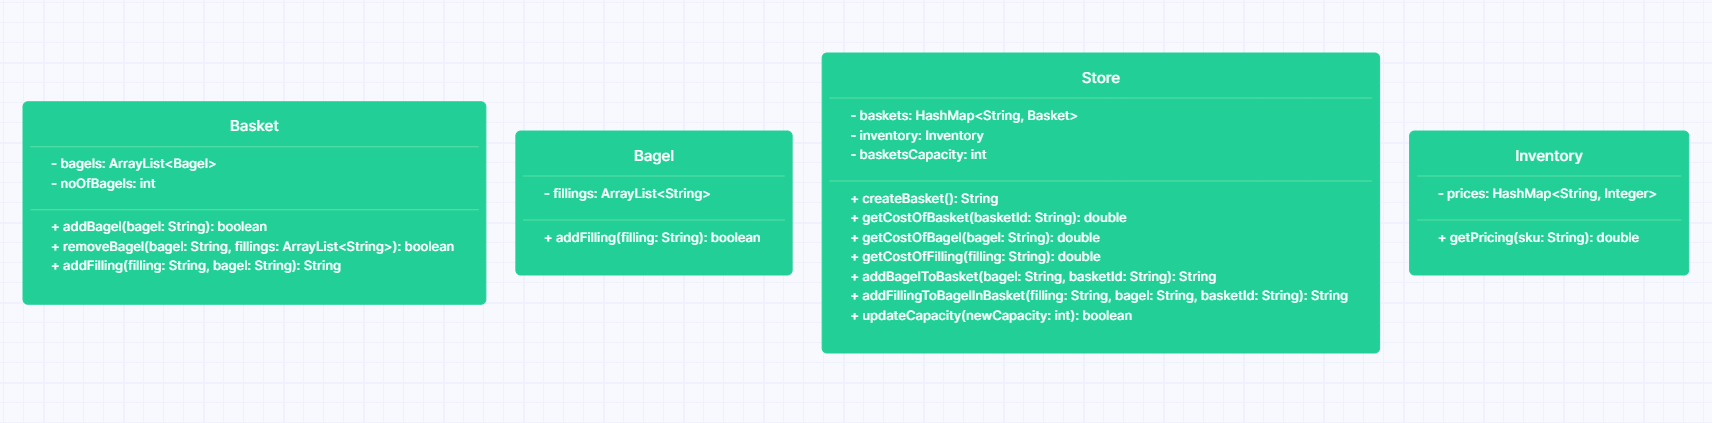
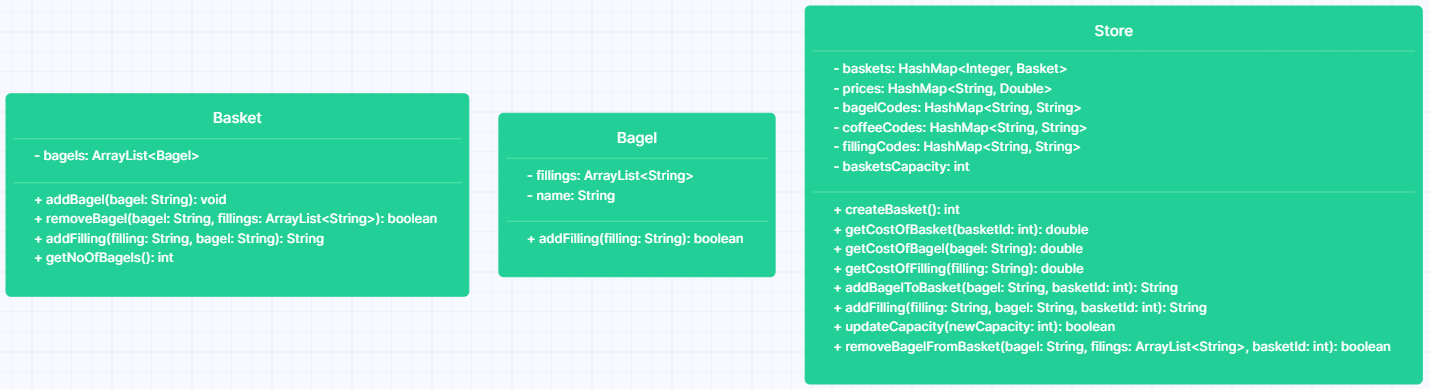
Updated domain model and class diagram (plus small clean up)

diff --git a/src/main/java/com/booleanuk/core/Bagel.java b/src/main/java/com/booleanuk/core/Bagel.java
@@ -7,7 +7,7 @@ public class Bagel {
     private ArrayList<String> fillings;
 
     public Bagel(String name) {
-        this.name = name;
+        this.name = name.toUpperCase();
         fillings = new ArrayList<>();
     }
 
@@ -34,7 +34,7 @@ public class Bagel {
     }
 
     public ArrayList<String> getFillings() {
-        return fillings;
+        return new ArrayList<>(fillings);
     }
 
     @Override
@@ -46,4 +46,8 @@ public class Bagel {
         return this.name.equalsIgnoreCase(other.name) && this.fillings.equals(other.fillings);
     }
 
+    @Override
+    public String toString() {
+        return name + (fillings.isEmpty()? "": " with " + fillings);
+    }
 }

diff --git a/src/main/java/com/booleanuk/core/Basket.java b/src/main/java/com/booleanuk/core/Basket.java
@@ -10,7 +10,7 @@ public class Basket {
     }
 
     public ArrayList<Bagel> getBagels() {
-        return bagels;
+        return new ArrayList<>(bagels);
     }
 
     public void addBagel(String bagel) {
@@ -44,4 +44,8 @@ public class Basket {
         return bagels.remove(new Bagel(bagel, upperCasedFillings));
     }
 
+    @Override
+    public String toString() {
+        return bagels.toString();
+    }
 }

diff --git a/src/main/java/com/booleanuk/core/Store.java b/src/main/java/com/booleanuk/core/Store.java
@@ -26,7 +26,7 @@ public class Store {
     }
 
     public HashMap<Integer,Basket> getBaskets() {
-        return baskets;
+        return new HashMap<>(baskets);
     }
 
     public String addBagelToBasket(String bagel, int basketId) {

diff --git a/src/test/java/com/booleanuk/core/StoreTest.java b/src/test/java/com/booleanuk/core/StoreTest.java
@@ -189,4 +189,5 @@ public class StoreTest {
         Assertions.assertTrue(store.removeBagelFromBasket("onion", new ArrayList<>(Arrays.asList("cheese","egg")), basketId));
     }
 
+
 }

diff --git a/domain-model.md b/domain-model.md
@@ -8,6 +8,7 @@ Basket
 | addFilling(String filling, String bagel)              |                          | Customer wants to add a filling to an existing bagel in their basket                                      | "Filling added."                                                   |
 |                                                       |                          | Customer wants to add a filling to a bagel that doesn't exist in the basket                               | "Your basket doesn't contain that bagel."                          |
 |                                                       |                          | Customer wants to add a filling to a bagel in their basket that already has that filling                  | "All bagels of that kind in your basket already has that filling." |
+|                                                       |                          |                                                                                                           |                                                                    |
 
 Bagel
 
@@ -34,7 +35,7 @@ Store
 |                                                                                |                                                                                                                              | Customer wants to add an existing filling to a bagel that doesn't exist in the basket                        | "Your basket doesn't contain that bagel."                             |
 |                                                                                |                                                                                                                              | Customer wants to add an existing filling to an existing bagel in their basket                               | "Filling added."                                                      |
 |                                                                                |                                                                                                                              | Customer wants to add an existing filling to an existing bagel in their basket that already has that filling | "The bagel(s) of that kind in your basket already have that filling." |
-| updateCapacity(int newCapacity)                                                |                                                                                                                              | Updating the capacity to a number higher or equal to the current items in all basket                         | true                                                                  |
+| updateBasketCapacity(int newCapacity)                                          |                                                                                                                              | Updating the capacity to a number higher or equal to the current items in all basket                         | true                                                                  |
 |                                                                                |                                                                                                                              | Updating the capacity to a number lower than the current number of items in at least one basket              | false                                                                 |
 | removeBagelFromBasket(String bagel, ArrayList\<String> fillings, int basketId) |                                                                                                                              | Customer wants to remove an existing bagel from their basket                                                 | true                                                                  |
 |                                                                                |                                                                                                                              | Customer wants to remove a non-existent bagel from their basket                                              | false                                                                 |
